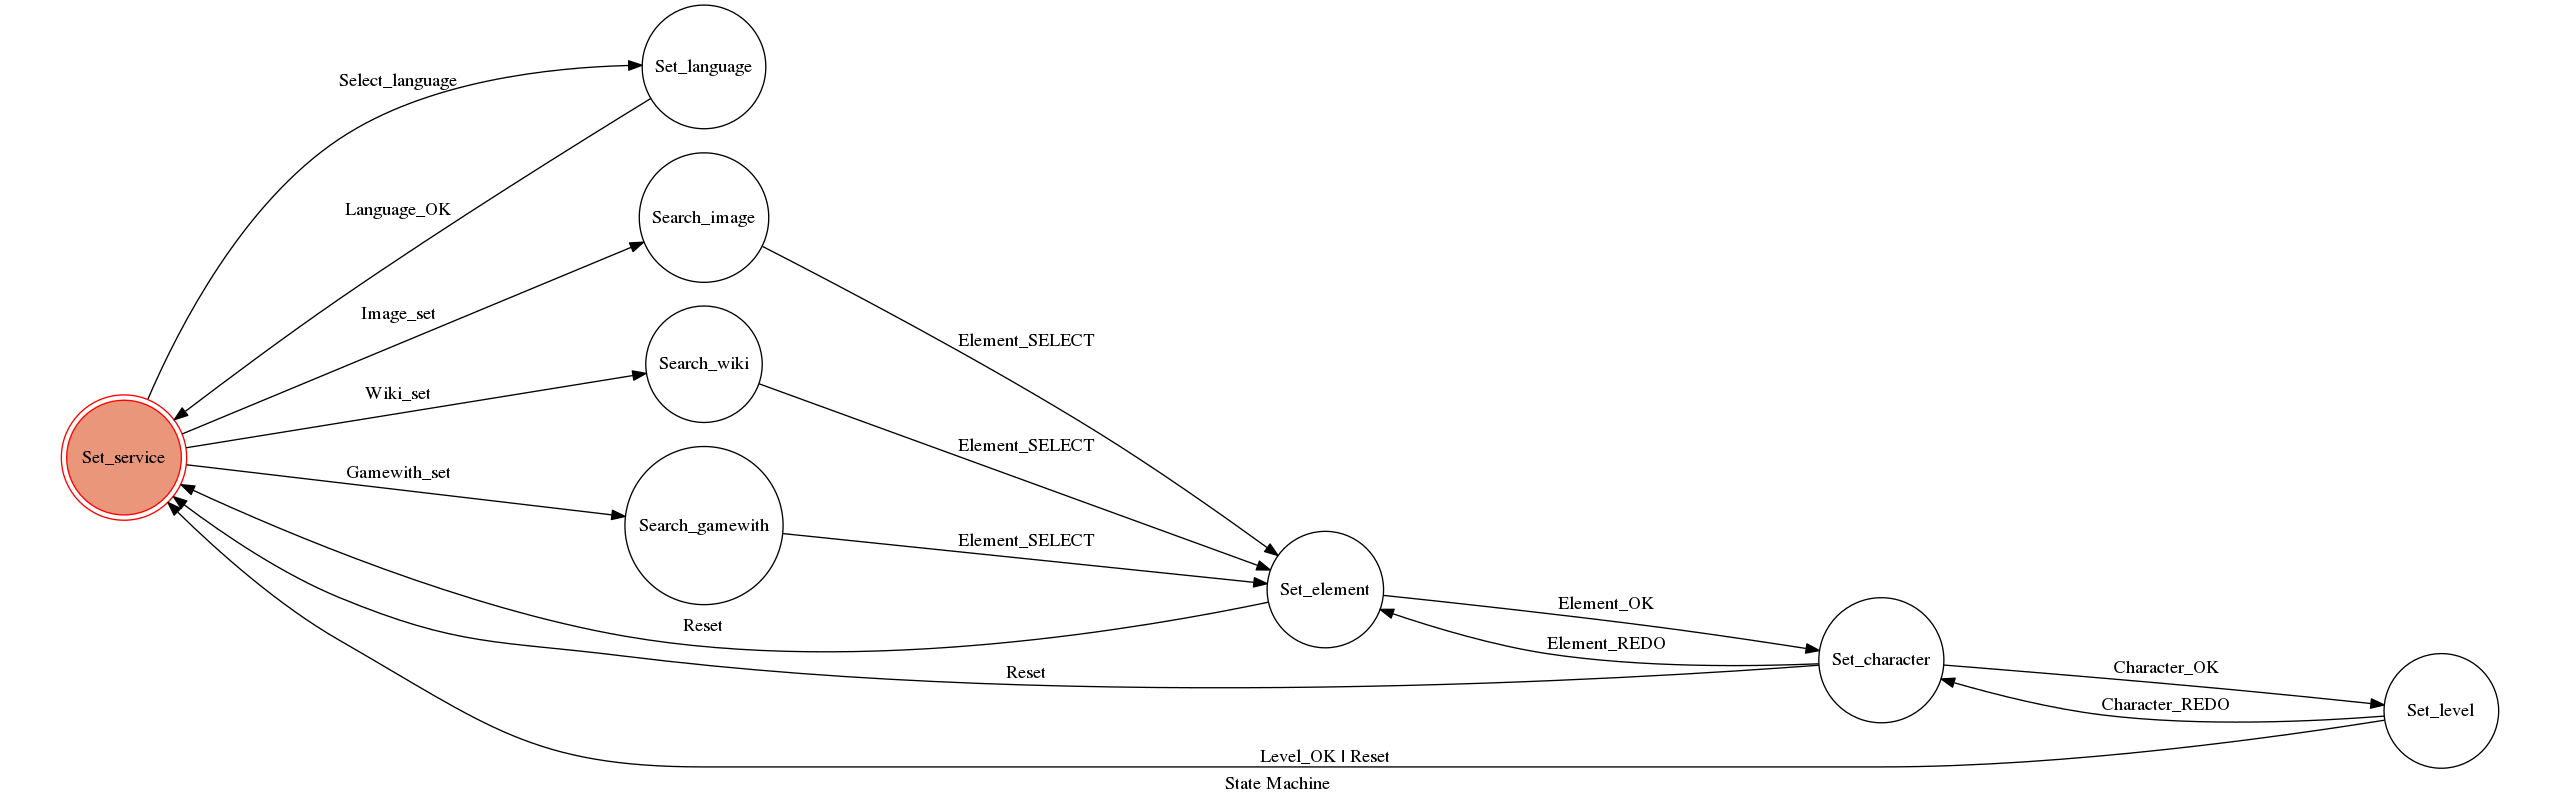
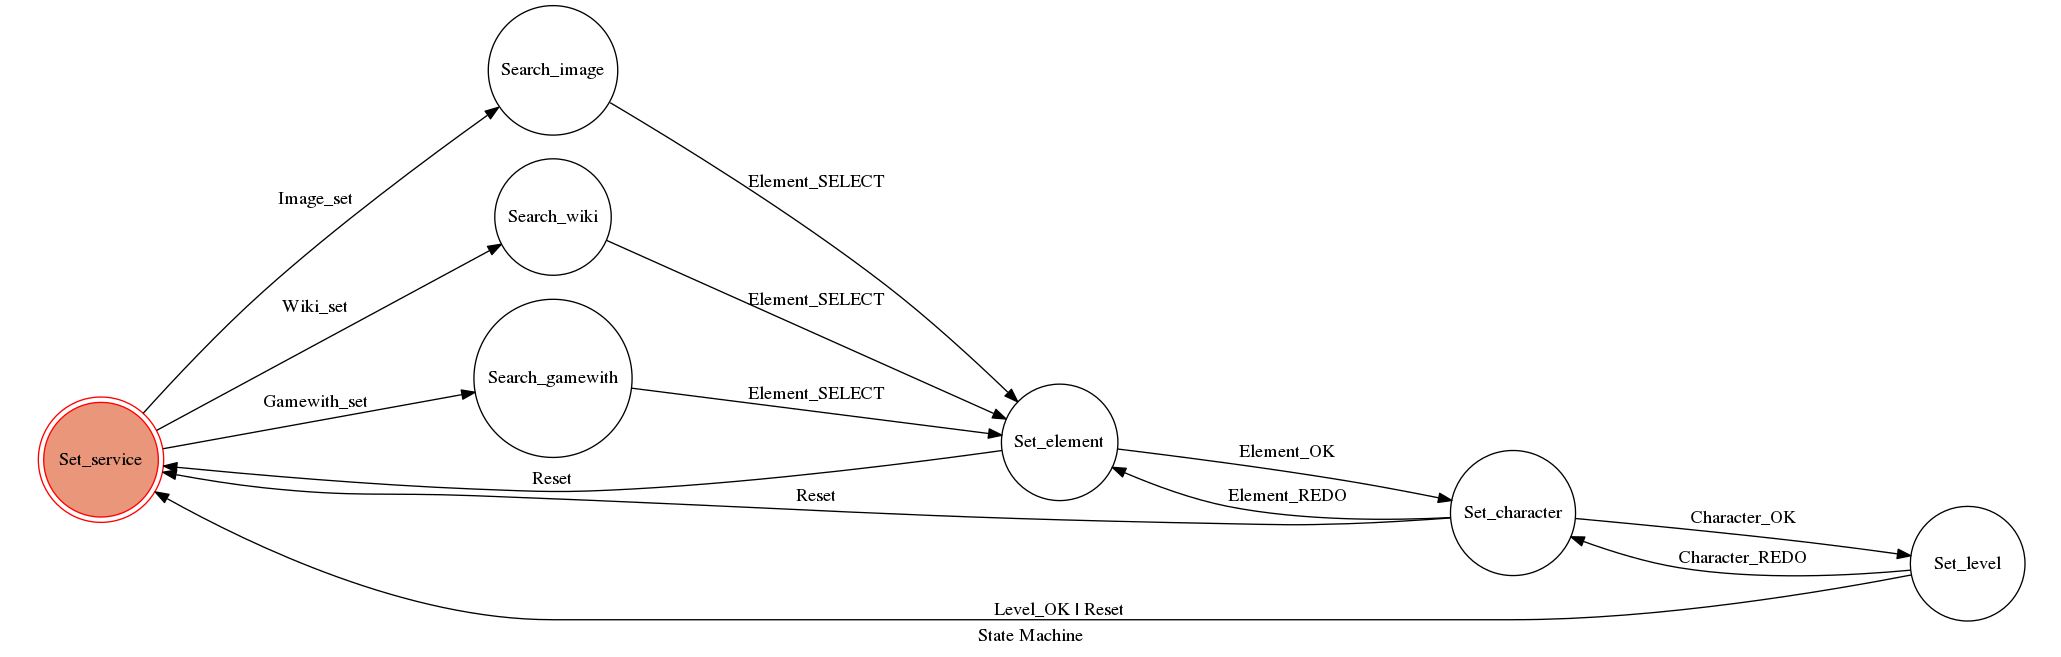
Dealing with Redo and Reset

diff --git a/Chat_Bot.py b/Chat_Bot.py
@@ -8,6 +8,7 @@ from DB_keyboard import *
 
 TOKEN = '488534319:AAG-mAJxomYbuFwqfVNBMv2vVAP4aLd6SOM'
 URL = "https://api.telegram.org/bot{}/".format(TOKEN)
+    
 
 def get_updates(offset=None):
     url = URL + "getUpdates"
@@ -30,6 +31,7 @@ def send_message(text,chat_id,keyboard = None):
     if keyboard:
         url += "&reply_markup={}".format(keyboard)
     requests.get(url)
+
 
 def send_result(information,chat_id):
     if information['Service'] == 'Search image':
@@ -58,11 +60,11 @@ def Initialize():
         requests.get(url)
 
 
-def State_handler(machine, updates, information):
+def State_handler(machine, update, information):
     STATE = machine.state
-    for update in updates["result"]:
-        text = update["message"]["text"]
-        chat_id = update["message"]["chat"]["id"]
+    text = update["message"]["text"]
+    chat_id = update["message"]["chat"]["id"]
+
 
     if STATE == 'Set_service':
         if text == "/start":
@@ -86,10 +88,12 @@ def State_handler(machine, updates, information):
             send_message("No such command,use \"/start\" to start",chat_id)
             return
         send_message("Please select element of the character",chat_id,Element_keyboard)
-    elif STATE == 'Set_language':
-        {}
+
     elif STATE == 'Set_element':
-        if text in Element_list:
+        if text == 'Back':
+            machine.Reset()
+            send_message("Welcome,please choose the service",chat_id,Service_keyboard)
+        elif text in Element_list:
             information['Element'] = text
             machine.Element_OK()
             send_message("Please select character",chat_id,Character_keyboard[information['Element']])
@@ -97,7 +101,13 @@ def State_handler(machine, updates, information):
             send_message("Please select element of the character",chat_id,Element_keyboard)
 
     elif STATE == 'Set_character':
-        if text in Character_list:
+        if text == 'Reset':
+            machine.Reset()
+            send_message("Welcome,please choose the service",chat_id,Service_keyboard)
+        elif text == 'Back':
+            machine.Element_REDO()
+            send_message("Please select element of the character",chat_id,Element_keyboard)
+        elif text in Character_list:
             information['Character']=text
             machine.Character_OK()
             if information['Service'] == 'Search image':
@@ -110,22 +120,37 @@ def State_handler(machine, updates, information):
             send_message("Please select character",chat_id,Character_keyboard[information['Element']])
 
     elif STATE == 'Set_level':
-        information['Level'] = text
-        machine.Level_OK()
-        send_result(information,chat_id)
-        send_message("Finished. Use \"/start\" for next search.",chat_id)
+        if text == 'Reset':
+            machine.Reset()
+            send_message("Welcome,please choose the service",chat_id,Service_keyboard)
+        elif text == 'Back':
+            machine.Character_REDO()
+            send_message("Please select character",chat_id,Character_keyboard[information['Element']])
+        else:
+            information['Level'] = text
+            machine.Level_OK()
+            send_result(information,chat_id)
+            send_message("Finished. Use \"/start\" for next search.",chat_id)
         
-
-def main():
+class Data:
     machine = StateMachine(states = states, transitions = transitions, initial = 'Set_service')
     information = {'Service': 'None', 'Element': 'None', 'Character': 'None', 'Level': 'None'}
+
+
+def main():
+    UserDict = {}
     last_update_id = None
 
     while True:
         updates = get_updates(last_update_id)
         if len(updates["result"]) > 0:
+            for update in updates["result"]:
+                chat_id = update["message"]["chat"]["id"]
+                if chat_id not in UserDict:
+                    UserDict[chat_id] = Data()
+                print(chat_id)
+                State_handler(UserDict[chat_id].machine, update, UserDict[chat_id].information)
             last_update_id = get_last_update_id(updates) + 1
-            State_handler(machine, updates, information)
         time.sleep(0.5)
 
 

diff --git a/DB_keyboard.py b/DB_keyboard.py
@@ -1,6 +1,6 @@
-Service_keyboard = "{\"one_time_keyboard\": true, \"keyboard\": [[\"Search image\"], [\"Search wiki\"], [\"Search gamewith\"], [\"Select language\"]]}"
+Service_keyboard = "{\"one_time_keyboard\": true, \"keyboard\": [[\"Search image\"], [\"Search wiki\"], [\"Search gamewith\"]]}"
 
-Element_keyboard = "{\"one_time_keyboard\": true, \"keyboard\": [[\"Fire\"], [\"Water\"], [\"Earth\"], [\"Wind\"], [\"Light\"], [\"Dark\"], [\"Reset\"]]}"
+Element_keyboard = "{\"one_time_keyboard\": true, \"keyboard\": [[\"Fire\"], [\"Water\"], [\"Earth\"], [\"Wind\"], [\"Light\"], [\"Dark\"], [\"Back\"]]}"
 
 Character_keyboard = {
     'Fire':  "{\"one_time_keyboard\": true, \"keyboard\": [[\"Reset\"], [\"Back\"], [\"Anila\"]]}",
@@ -11,7 +11,7 @@ Character_keyboard = {
     'Dark':  "{\"one_time_keyboard\": true, \"keyboard\": [[\"Reset\"], [\"Back\"], [\"\"]]}"
 }
 
-Level_keyboard = "{\"one_time_keyboard\": true, \"keyboard\": [[\"%E2%98%85+1\"], [\"%E2%98%85+3\"]]}"
+Level_keyboard = "{\"one_time_keyboard\": true, \"keyboard\": [[\"Reset\"], [\"Back\"], [[\"%E2%98%85+1\"], [\"%E2%98%85+3\"]]}"
 
 Element_list = ['Fire', 'Water', 'Earth', 'Wind', 'Light', 'Dark']
 

diff --git a/FSM.py b/FSM.py
@@ -6,7 +6,6 @@ class StateMachine(Machine):
 
 states = [
     {'name': 'Set_service'},
-    {'name': 'Set_language'},
     {'name': 'Search_image'},
     {'name': 'Search_wiki'},
     {'name': 'Search_gamewith'},
@@ -16,8 +15,6 @@ states = [
 ]
 
 transitions = [
-    ['Select_language','Set_service','Set_language'],
-    ['Language_OK','Set_language','Set_service'],
     ['Image_set','Set_service','Search_image'],
     ['Wiki_set','Set_service','Search_wiki'],
     ['Gamewith_set','Set_service','Search_gamewith'],
